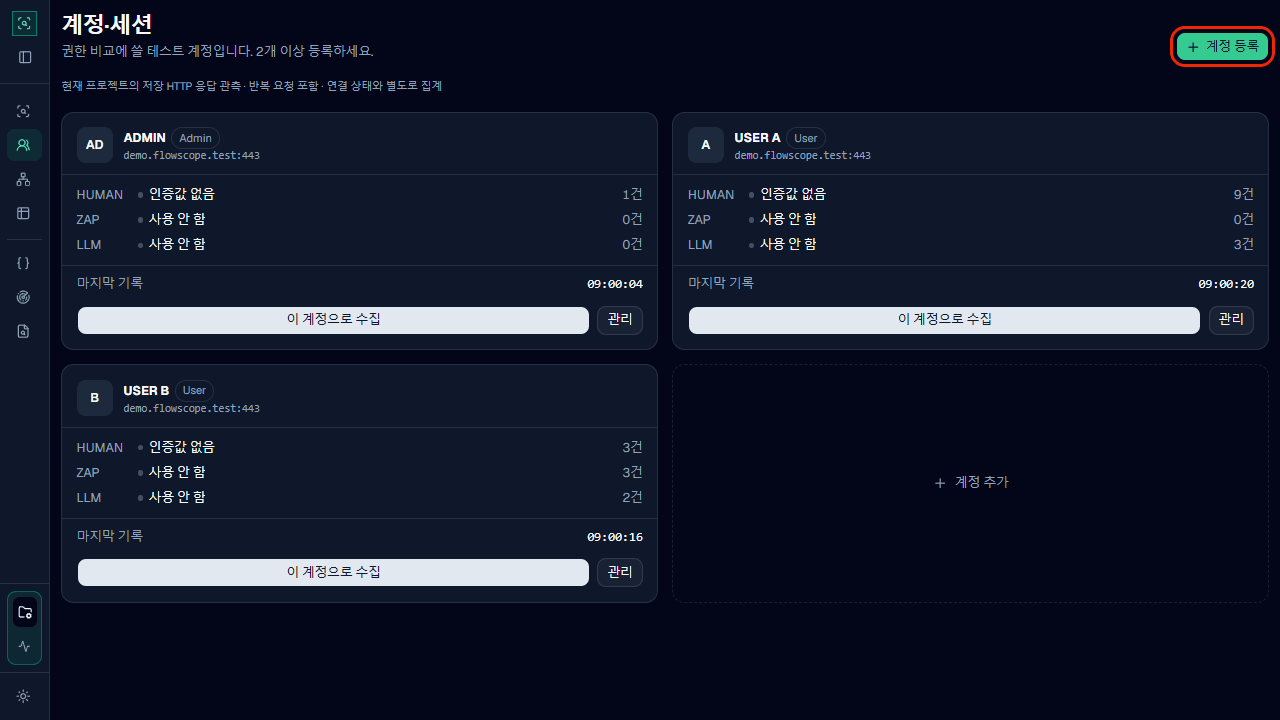
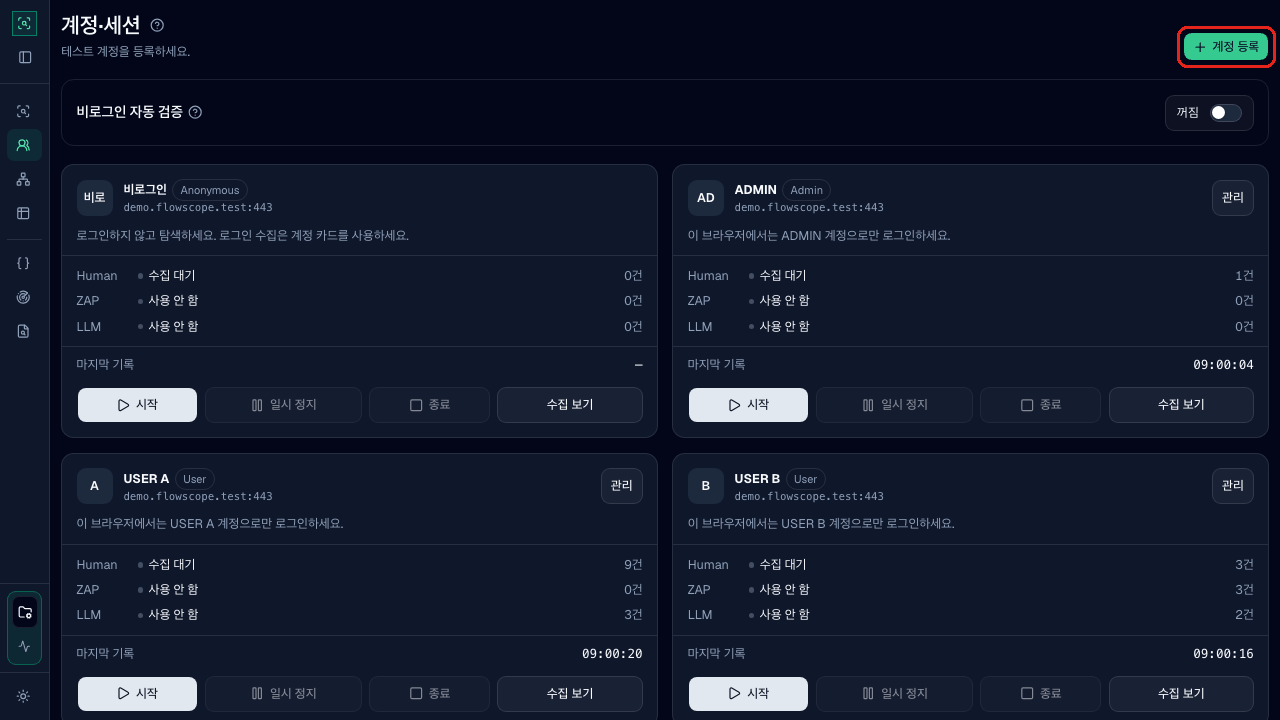
(DOCS) : 계정·세션과 점검 시작 변경을 사용 설명서에 반영
이유
- 계정·세션 화면이 계정 카드(시작·일시 정지·종료·수집 보기)와
  비로그인 카드, 비로그인 자동 검증 토글로 바뀌었고, 점검 시작은
  번호 단계 대신 수집 기록·ZAP 스캔·LLM 탐색·결과 비교 탭이 됐다.
  설명서에는 "이 계정으로 수집", "1 · 직접 둘러보기" 같은 옛 표기가 남아 있었다.

변경
- README 설치 §6, 첫 점검 §3·§4: 카드 버튼·일시 정지·비로그인 자동 검증,
  수집 기록 탭 설명 추가. 단계 번호를 탭 이름으로 교체.
- inspection-flow.md 2번 항목, screens.md 요약 표·계정·세션·수집 기록 설명,
  troubleshooting.md HUMAN 수집 확인 순서에서 같은 표기 교체.
- docs/images의 accounts-overview.png, inspection.png를 Standalone 샘플
  데이터로 다시 촬영(1280x720, 256색 PNG, 100KB 이하, releases/README.md 규칙).

설계 선택
- 기존 문서 구조·문체는 유지하고 바뀐 화면 부분만 고쳤다. 긴 문단 분해와
  개발 문서(STRUCTURE·features 등) 정리는 diff를 키워 이번 범위에서 뺐다.
- 스크린샷은 실제 대상 주소가 노출되지 않도록 실환경 화면 대신 샘플 데이터로 찍었다.

검증
- 버튼·상태·필터 문구를 AccountsPage.tsx, InspectionPage.tsx,
  HumanRequestFeed.tsx, AnonymousAutoVerification.tsx의 실제 문구와 대조.
- 옛 표기가 사용 설명서에 남지 않았는지 grep으로 확인.
- 문서 코드만 바뀌어 Maven·vitest는 실행하지 않음.

남은 한계
- releases/의 과거 기록과 unreleased.md의 "이 계정으로 수집" 문구는 그대로 둠.

diff --git a/docs/guide/inspection-flow.md b/docs/guide/inspection-flow.md
@@ -50,7 +50,7 @@ ZAP의 `scope-only`는 FlowScope scope가 아니라 ZAP Context를 기준으로 
 ### 일반적인 점검 흐름
 
 1. Web UI에서 exact scope를 설정하고 익명 또는 최소 권한 테스트 계정을 사용합니다. ADMIN 계정은 필수가 아니며 명시적 역할 비교가 필요한 경우에만 사용합니다.
-2. **계정·세션**에서 USER A/USER B처럼 비밀값이 없는 표시 이름을 한 번 등록합니다. 등록 창은 화면 중앙에 뜨며 표시 이름·역할·대상 서비스(scope가 있으면 자동 입력)만 받고, 관리 창은 왼쪽 메뉴(기본 정보·HUMAN·ZAP 로그인)로 나뉩니다. 계정은 카드로 보이며 HUMAN 인증값 상태(인증값 있음·없음·만료)와 요청 건수, ZAP·LLM 사용 여부, 마지막 기록 시각을 한 카드에 모으고, **이 계정으로 수집**은 점검 시작의 직접 둘러보기로 이동하며 그 계정을 미리 고릅니다. HUMAN 세션은 별도 로그인 캡처 없이 HUMAN pass가 잡으며, 관리 창의 HUMAN 메뉴는 저장된 인증값을 헤더 이름과 앞 4자만 보여 주고(원문은 화면에 오지 않음), Burp 요청 헤더를 붙여넣어 교체하며(Cookie·Authorization·CSRF 헤더만 저장), 기록된 요청은 마스킹된 요청·응답 원문을 펼쳐 본 뒤 연결합니다. HUMAN 요청은 Burp에 실제로 연결된 HUMAN 프록시 리스너(예: 8888)로 들어와도 같은 계정으로 기록됩니다. 같은 브라우저 프로필에서 A를 로그아웃한 뒤 B로 로그인하는 방식은 Cookie·localStorage·IndexedDB 잔여 상태를 격리하지 못합니다. 다른 등록 계정의 자격증명이 B 캡처 요청에서 감지되면 그 교환은 어느 계정의 재사용 세션도 갱신하지 않으며 B는 성공 응답이 별도로 확인될 때까지 `로그인 확인 필요`로 남습니다. 같은 등록 계정에 ZAP 로그인 설정과 LLM 탐색의 브라우저 로그인을 연결할 수 있으며 이를 별도 신원으로 만들지 않습니다. ZAP 설정이 있는 계정은 전체 크롤링 없이 **세션 갱신**만 실행해 ZAP Browser Based Authentication의 검증된 응답을 독립 HUMAN 재전송 세션으로 연결할 수 있습니다. 기본 화면에는 계정 하나가 카드 하나로 보이며 Cookie·Authorization·subject 지문은 계정 수를 늘리지 않고 접힌 **기술 정보**에만 묶입니다. 자격증명만 있고 성공 응답이 관측되지 않은 세션은 `로그인 확인 필요`로 남아 Request Lab에 재사용되지 않습니다. HUMAN pass는 사전 로그인 캡처 없이 대상 서비스의 등록 계정 누구로든 시작합니다. 계정을 고른 pass 동안 Cookie 또는 Authorization이 있는 브라우저 요청은 그 계정으로 기록되고, 그 계정 세션은 매 요청의 최신 인증값으로 갱신되어(쿠키 회전 추종) 성공 응답 뒤 Request Lab `현재 세션` 재전송에 바로 쓰입니다. 인증값이 없는 요청은 비로그인으로 남습니다. 시작부터 종료까지는 사용자가 고른 계정이 기준입니다. 새로 로그인하거나 토큰·쿠키가 바뀌어도 수집을 멈추지 않고 그 계정의 최신 인증값으로 따라가며, 같은 인증값이 예전에 다른 계정에 잘못 연결돼 있었다면 이번 선택으로 덮어씁니다. Repeater·Intruder에서 다른 JWT 사용자로 바꾼 요청만 수집 계정에 넣지 않습니다. 계정 전환은 자동으로 감지하지 않으므로 다른 계정으로 바꾸기 전에 반드시 종료한 뒤 그 계정으로 다시 시작하십시오. 트래픽이 없는 새 프로젝트의 Home **빠른 시작**은 계정·세션으로 이동해 비교할 계정부터 등록하게 합니다. raw 세션 값은 확장 메모리에만 남으며 LLM에 반환하거나 프로젝트에 저장하지 않습니다. 로그인 준비 트래픽과 HUMAN pass 밖에서 발생한 같은 scope 트래픽도 Evidence로는 보존하지만 3-way 비교와 갭에서는 제외합니다. **HUMAN pass 시작** 후 허가된 기능을 탐색하고 같은 run을 종료하십시오. Web의 `pass 완료`는 수집 건수가 아니라 해당 run의 정확한 종료가 확인됐을 때만 표시됩니다. pass 중 Repeater·Intruder로 만든 요청은 같은 run에 속하되 실제 Burp 도구 detail을 유지합니다. Proxy·Repeater·Intruder 응답은 Montoya `messageId`로 요청 시점 pass/account에 연결되며, 데이터셋·프로젝트 교체 이전의 늦은 응답이나 상관관계를 잃은 응답은 현재 pass로 추측하지 않고 제외됩니다. 대상 동작만으로 알 수 없는 신원 역할, endpoint 요구 역할, 확인된 객체 소유자는 사용자가 지정합니다. BOLA 비교에는 서로 다른 최소 권한 계정 2개를 권장합니다. 구현 근거와 도구·연구 비교는 [`docs/SESSION_ACCOUNT_ISOLATION.md`](../../docs/SESSION_ACCOUNT_ISOLATION.md)에 정리되어 있습니다.
+2. **계정·세션**에서 USER A/USER B처럼 비밀값이 없는 표시 이름을 한 번 등록합니다. 등록 창은 화면 중앙에 뜨며 표시 이름·역할·대상 서비스(scope가 있으면 자동 입력)만 받고, 관리 창은 왼쪽 메뉴(기본 정보·HUMAN·ZAP 로그인)로 나뉩니다. 계정은 비로그인 카드와 함께 카드로 보이며 Human 수집 상태(수집 대기·수집 중·수집 일시 정지·기록 분석 중·수집 종료)와 출처별 요청 건수, ZAP·LLM 사용 여부, 마지막 기록 시각을 한 카드에 모읍니다. 카드의 **시작**은 그 계정 전용 브라우저를 열어 HUMAN pass를 시작하고, **일시 정지**는 브라우저를 둔 채 기록만 멈추며 다시 **시작**하면 이어서 기록합니다. **종료**는 브라우저를 정리한 뒤 받은 기록을 분석하고, **수집 보기**는 점검 시작의 **수집 기록** 탭으로 이동합니다. 화면 위쪽 **비로그인 자동 검증**을 켜면 계정으로 방문한 GET API를 같은 URL·쿼리마다 한 번씩 비로그인으로 다시 보내며, 켠 뒤 새로 수집한 요청부터 적용합니다. HUMAN 세션은 별도 로그인 캡처 없이 HUMAN pass가 잡으며, 관리 창의 HUMAN 메뉴는 저장된 인증값을 헤더 이름과 앞 4자만 보여 주고(원문은 화면에 오지 않음), Burp 요청 헤더를 붙여넣어 교체하며(Cookie·Authorization·CSRF 헤더만 저장), 기록된 요청은 마스킹된 요청·응답 원문을 펼쳐 본 뒤 연결합니다. HUMAN 요청은 Burp에 실제로 연결된 HUMAN 프록시 리스너(예: 8888)로 들어와도 같은 계정으로 기록됩니다. 같은 브라우저 프로필에서 A를 로그아웃한 뒤 B로 로그인하는 방식은 Cookie·localStorage·IndexedDB 잔여 상태를 격리하지 못합니다. 다른 등록 계정의 자격증명이 B 캡처 요청에서 감지되면 그 교환은 어느 계정의 재사용 세션도 갱신하지 않으며 B는 성공 응답이 별도로 확인될 때까지 `로그인 확인 필요`로 남습니다. 같은 등록 계정에 ZAP 로그인 설정과 LLM 탐색의 브라우저 로그인을 연결할 수 있으며 이를 별도 신원으로 만들지 않습니다. ZAP 설정이 있는 계정은 전체 크롤링 없이 **세션 갱신**만 실행해 ZAP Browser Based Authentication의 검증된 응답을 독립 HUMAN 재전송 세션으로 연결할 수 있습니다. 기본 화면에는 계정 하나가 카드 하나로 보이며 Cookie·Authorization·subject 지문은 계정 수를 늘리지 않고 접힌 **기술 정보**에만 묶입니다. 자격증명만 있고 성공 응답이 관측되지 않은 세션은 `로그인 확인 필요`로 남아 Request Lab에 재사용되지 않습니다. HUMAN pass는 사전 로그인 캡처 없이 대상 서비스의 등록 계정 누구로든 시작합니다. 계정을 고른 pass 동안 Cookie 또는 Authorization이 있는 브라우저 요청은 그 계정으로 기록되고, 그 계정 세션은 매 요청의 최신 인증값으로 갱신되어(쿠키 회전 추종) 성공 응답 뒤 Request Lab `현재 세션` 재전송에 바로 쓰입니다. 인증값이 없는 요청은 비로그인으로 남습니다. 시작부터 종료까지는 사용자가 고른 계정이 기준입니다. 새로 로그인하거나 토큰·쿠키가 바뀌어도 수집을 멈추지 않고 그 계정의 최신 인증값으로 따라가며, 같은 인증값이 예전에 다른 계정에 잘못 연결돼 있었다면 이번 선택으로 덮어씁니다. Repeater·Intruder에서 다른 JWT 사용자로 바꾼 요청만 수집 계정에 넣지 않습니다. 계정 전환은 자동으로 감지하지 않으므로 다른 계정으로 바꾸기 전에 반드시 종료한 뒤 그 계정으로 다시 시작하십시오. 트래픽이 없는 새 프로젝트의 Home **빠른 시작**은 계정·세션으로 이동해 비교할 계정부터 등록하게 합니다. raw 세션 값은 확장 메모리에만 남으며 LLM에 반환하거나 프로젝트에 저장하지 않습니다. 로그인 준비 트래픽과 HUMAN pass 밖에서 발생한 같은 scope 트래픽도 Evidence로는 보존하지만 3-way 비교와 갭에서는 제외합니다. **HUMAN pass 시작** 후 허가된 기능을 탐색하고 같은 run을 종료하십시오. Web의 `pass 완료`는 수집 건수가 아니라 해당 run의 정확한 종료가 확인됐을 때만 표시됩니다. pass 중 Repeater·Intruder로 만든 요청은 같은 run에 속하되 실제 Burp 도구 detail을 유지합니다. Proxy·Repeater·Intruder 응답은 Montoya `messageId`로 요청 시점 pass/account에 연결되며, 데이터셋·프로젝트 교체 이전의 늦은 응답이나 상관관계를 잃은 응답은 현재 pass로 추측하지 않고 제외됩니다. 대상 동작만으로 알 수 없는 신원 역할, endpoint 요구 역할, 확인된 객체 소유자는 사용자가 지정합니다. BOLA 비교에는 서로 다른 최소 권한 계정 2개를 권장합니다. 구현 근거와 도구·연구 비교는 [`docs/SESSION_ACCOUNT_ISOLATION.md`](../../docs/SESSION_ACCOUNT_ISOLATION.md)에 정리되어 있습니다.
 
 - 선택적 수동 검증: 그래프에서 API를 누르고 관측 기록의 **요청 실험실**을 엽니다. 화면은 인증 교체 전 관측 원문을 표시하고 선택 계정 인증값은 노출하지 않으며, Web 전송 또는 Burp Repeater 초안 생성 시 서버에서 교체합니다. Web 전송은 `현재 ACTIVE 계정`·`비로그인`·`원문 그대로`를 지원하며, Burp Repeater 초안은 원본 인증값 대신 `현재 세션` 또는 `비로그인`으로만 엽니다. path/query/header/body를 편집해도 네트워크 목적지는 원 Evidence 서비스로 고정되고 redirect는 따라가지 않습니다. 응답과 시간·크기를 확인할 수 있으며 전송 결과는 HUMAN `VALIDATION` Evidence가 되어 탐색 커버리지를 늘리지 않습니다. live 원문은 기본 요청 1MiB·응답 4MiB·총 32MiB의 Burp 프로세스 메모리에서만 유지되고 프로젝트·샘플 교체와 unload 때 폐기됩니다. 프로젝트/XML/HAR에서 가져온 항목이나 상한 초과 항목은 마스킹 전문만 사용할 수 있습니다.
 
